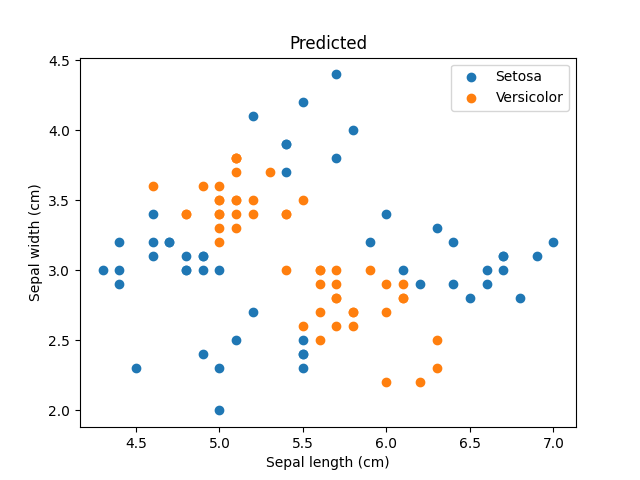
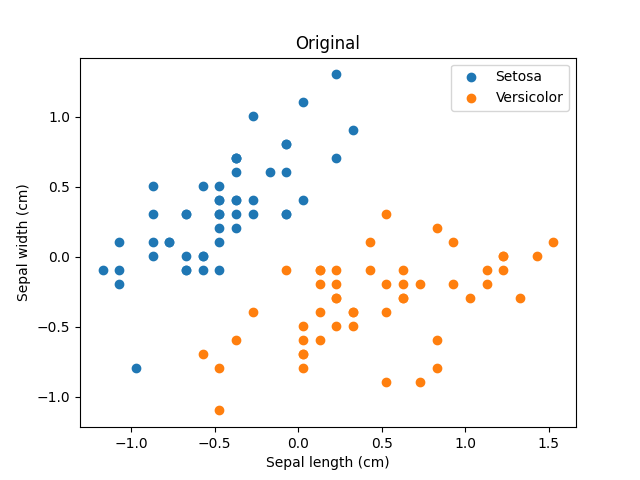
学習部分の実装

diff --git a/ml.py b/ml.py
@@ -1,6 +1,7 @@
 import numpy as np
 import matplotlib.pyplot as plt
 from sklearn import datasets
+import random
 
 iris = datasets.load_iris()
 iris_data = iris.data
@@ -14,9 +15,10 @@ sw_ave = np.average(sw_data)
 sw_data -= sw_ave
 
 # 入力をリストに格納
-input_data = []
+train_data = []
 for i in range(100):  # iには0から99までが入る
-    input_data.append([sl_data[i], sw_data[i]])
+    correct = iris.target[i]
+    train_data.append([sl_data[i], sw_data[i], correct])
 
 # シグモイド関数
 def sigmoid(x):
@@ -79,26 +81,93 @@ class NeuralNetwork:
 
         return self.output_layer[0].get_output()
 
+    def train(self, correct):
+        # 学習係数
+        k = 0.3
+        
+        #  出力
+        output_o = self.output_layer[0].output
+        output_m0 = self.middle_layer[0].output
+        output_m1 = self.middle_layer[1].output
+
+        # δ
+        delta_o = (output_o - correct) * output_o * (1.0 - output_o)
+        delta_m0 = delta_o * self.w_mo[0][0] * output_m0 * (1.0 - output_m0)
+        delta_m1 = delta_o * self.w_mo[0][1] * output_m1 * (1.0 - output_m1)
+
+        # パラメータの更新
+        self.w_mo[0][0] -= k * delta_o * output_m0
+        self.w_mo[0][1] -= k * delta_o * output_m1
+        self.b_o[0] -= k * delta_o
+        
+        self.w_im[0][0] -= k * delta_m0 * self.input_layer[0]
+        self.w_im[0][1] -= k * delta_m0 * self.input_layer[1]
+        self.w_im[1][0] -= k * delta_m1 * self.input_layer[0]
+        self.w_im[1][1] -= k * delta_m1 * self.input_layer[1]
+        self.b_m[0] -= k * delta_m0 
+        self.b_m[1] -= k * delta_m1 
+
 # ニューラルネットワークのインスタンス
 neural_network = NeuralNetwork()
 
-# 実行
-st_predicted = [[], []]  # Setosa
-vc_predicted = [[], []]  # Versicolor
-for data in input_data:
-    if neural_network.commit(data) < 0.5:
-        st_predicted[0].append(data[0]+sl_ave)
-        st_predicted[1].append(data[1]+sw_ave)
-    else:
-        vc_predicted[0].append(data[0]+sl_ave)
-        vc_predicted[1].append(data[1]+sw_ave)
+# 学習によるパラメータの変化
+# print("-------- Before train --------")
+# print(neural_network.w_im)
+# print(neural_network.w_mo)
+# print(neural_network.b_m)
+# print(neural_network.b_o)
 
-# 分類結果をグラフ表示
-plt.scatter(st_predicted[0], st_predicted[1], label="Setosa")
-plt.scatter(vc_predicted[0], vc_predicted[1], label="Versicolor")
+# グラフ表示用の関数
+def show_graph(epoch):
+    print("Epoch:", epoch)
+    # 実行
+    st_predicted = [[], []]  # Setosa
+    vc_predicted = [[], []]  # Versicolor
+    for data in train_data:
+        if neural_network.commit(data) < 0.5:
+            st_predicted[0].append(data[0]+sl_ave)
+            st_predicted[1].append(data[1]+sw_ave)
+        else:
+            vc_predicted[0].append(data[0]+sl_ave)
+            vc_predicted[1].append(data[1]+sw_ave)
+
+    # 分類結果をグラフ表示
+    plt.scatter(st_predicted[0], st_predicted[1], label="Setosa")
+    plt.scatter(vc_predicted[0], vc_predicted[1], label="Versicolor")
+    plt.legend()
+
+    plt.xlabel("Sepal length (cm)")
+    plt.ylabel("Sepal width (cm)")
+    plt.title("Epoch:" + str(epoch))
+    plt.savefig("plot_" + str(epoch) + ".png")  # CUIに表示できないため画像に出力
+    plt.clf()
+
+show_graph(0)
+
+# 学習と結果の表示
+for t in range(0, 32):
+    random.shuffle(train_data)
+    for data in train_data:
+        neural_network.commit(data[:2])  # 順伝播
+        neural_network.train(data[2])  # 逆伝播
+    if t+1 in [1, 2, 4, 8, 16, 32]:
+        show_graph(t+1)
+
+# 比較用に元の分類を散布図で表示
+st_data = iris_data[:50]  # Setosa
+vc_data = iris_data[50:100]  # Versicolor
+plt.scatter(st_data[:, 0], st_data[:, 1], label="Setosa")
+plt.scatter(vc_data[:, 0], vc_data[:, 1], label="Versicolor")
 plt.legend()
 
 plt.xlabel("Sepal length (cm)")
 plt.ylabel("Sepal width (cm)")
-plt.title("Predicted")
+plt.title("Original")
 plt.savefig('plot.png')  # CUIに表示できないため画像に出力
+
+# 学習によるパラメータの変化
+# print("-------- After train --------")
+# print(neural_network.w_im)
+# print(neural_network.w_mo)
+# print(neural_network.b_m)
+# print(neural_network.b_o)
